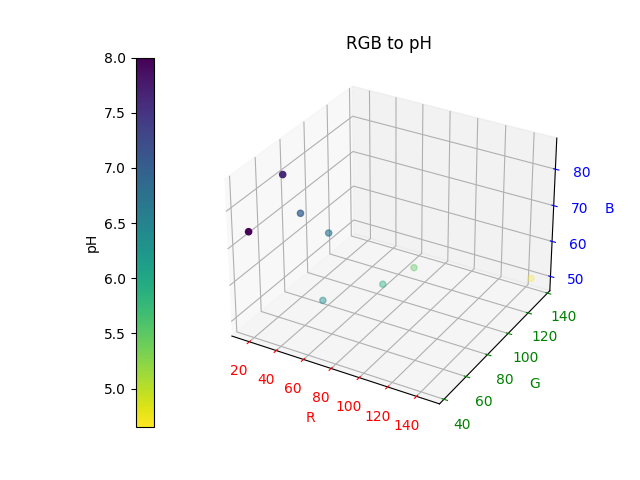
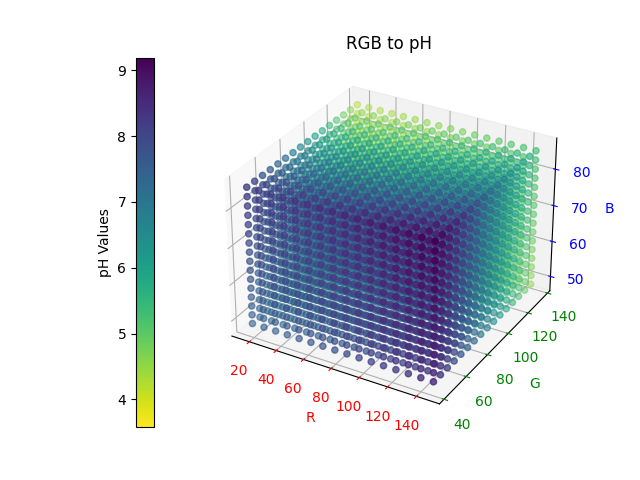
1

diff --git a/calibration_curve.py b/calibration_curve.py
@@ -4,8 +4,7 @@ import numpy as np
  
 # Fitting function
 def func(rgb, a1, a2, b1, b2, c1, c2):
-    return a1*rgb[:, 0]**a2+b1*rgb[:, 1]**b2+c1*rgb[:, 2]**c2
-    #return a1*r**a2+b1*g**b2+c1*b**c2
+    return a1 * rgb[:, 0]**a2 + b1 * rgb[:, 1]**b2 + c1 * rgb[:, 2]**c2
  
 # Experimental data points    
 pH_values = np.array([4.65, 5.50, 5.95, 6.40, 6.70, 7.00, 7.60, 8.00])
@@ -17,28 +16,34 @@ rgb_values = np.array([[146.29, 135.73, 50.21],
                        [28.64, 71.22, 72.75],
                        [26.41, 60.29, 85.66],
                        [16.36, 42.82, 73.87]])
+r = rgb_values[:, 0]
+g = rgb_values[:, 1]
+b = rgb_values[:, 2]
 
 # Perform the curve-fit
 popt, pcov = curve_fit(func, rgb_values, pH_values, maxfev = 20000)
 a1, a2, b1, b2, c1, c2 = popt
-print("Calibration Curves:\npH = "+str(a1)+" × R^("+str(a2)+") + "+str(b1)+" × G^("+str(b2)+") + "+str(c1)+" × B^("+str(c2)+")")
-print(func(rgb_values, a1, a2, b1, b2, c1, c2))
+print("Calibration Curves:\npH = " + str(a1) + " × R^(" + str(a2) + ") + " + str(b1) + " × G^(" + str(b2) + ") + " + str(c1) + " × B^(" + str(c2) + ")")
 
 # Create figure
 fig = plt.figure()
 ax = fig.add_subplot(111, projection='3d')
 
-# Set values
-r = rgb_values[:, 0]
-g = rgb_values[:, 1]
-b = rgb_values[:, 2]
-ph = pH_values
+# Fitting
+r_fit = np.linspace(min(r), max(r), 16)
+g_fit = np.linspace(min(g), max(g), 16)
+b_fit = np.linspace(min(b), max(b), 16)
+R, G, B = np.meshgrid(r_fit, g_fit, b_fit)
+pH = a1 * R**a2 + b1 * G**b2 + c1 * B**c2
 
-# Create colorbar figure
-img = ax.scatter(r, g, b, c=ph, cmap='viridis_r')
-cb = fig.colorbar(img, location = 'left')
+# Scatter plot
+img = ax.scatter(R, G, B, c=pH, cmap='viridis_r')
+
+# Colorbar
+colorbar = fig.colorbar(img, location='left')  # Set position to 'left'
+colorbar.set_label('pH Values')
+
 # Set labels
-cb.set_label('pH')
 ax.set_xlabel('R')
 ax.set_ylabel('G')
 ax.set_zlabel('B')
